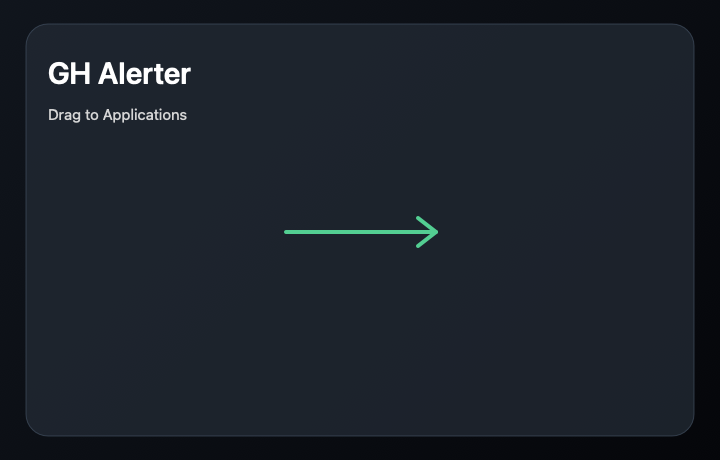
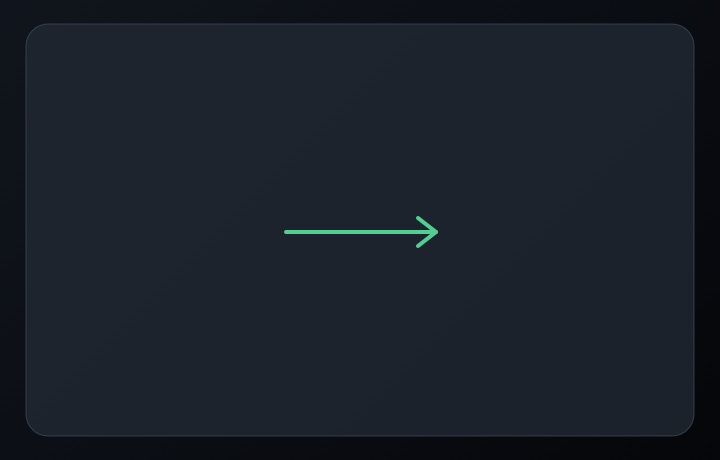
Harden DMG installer layout verification

Changed region(s): [[0.0611, 0.1217, 0.275, 0.1826], [0.0611, 0.2435, 0.275, 0.2739]]

diff --git a/scripts/generate-dmg-background.swift b/scripts/generate-dmg-background.swift
@@ -23,8 +23,6 @@ func drawBackground(size: NSSize) {
     panel.lineWidth = 1
     panel.stroke()
 
-    drawText("GH Alerter", at: NSPoint(x: 48, y: 370), size: 30, weight: .semibold, color: .white)
-    drawText("Drag to Applications", at: NSPoint(x: 48, y: 336), size: 15, weight: .regular, color: NSColor(calibratedWhite: 0.80, alpha: 1))
     drawArrow(from: NSPoint(x: 286, y: 228), to: NSPoint(x: 436, y: 228))
 }
 